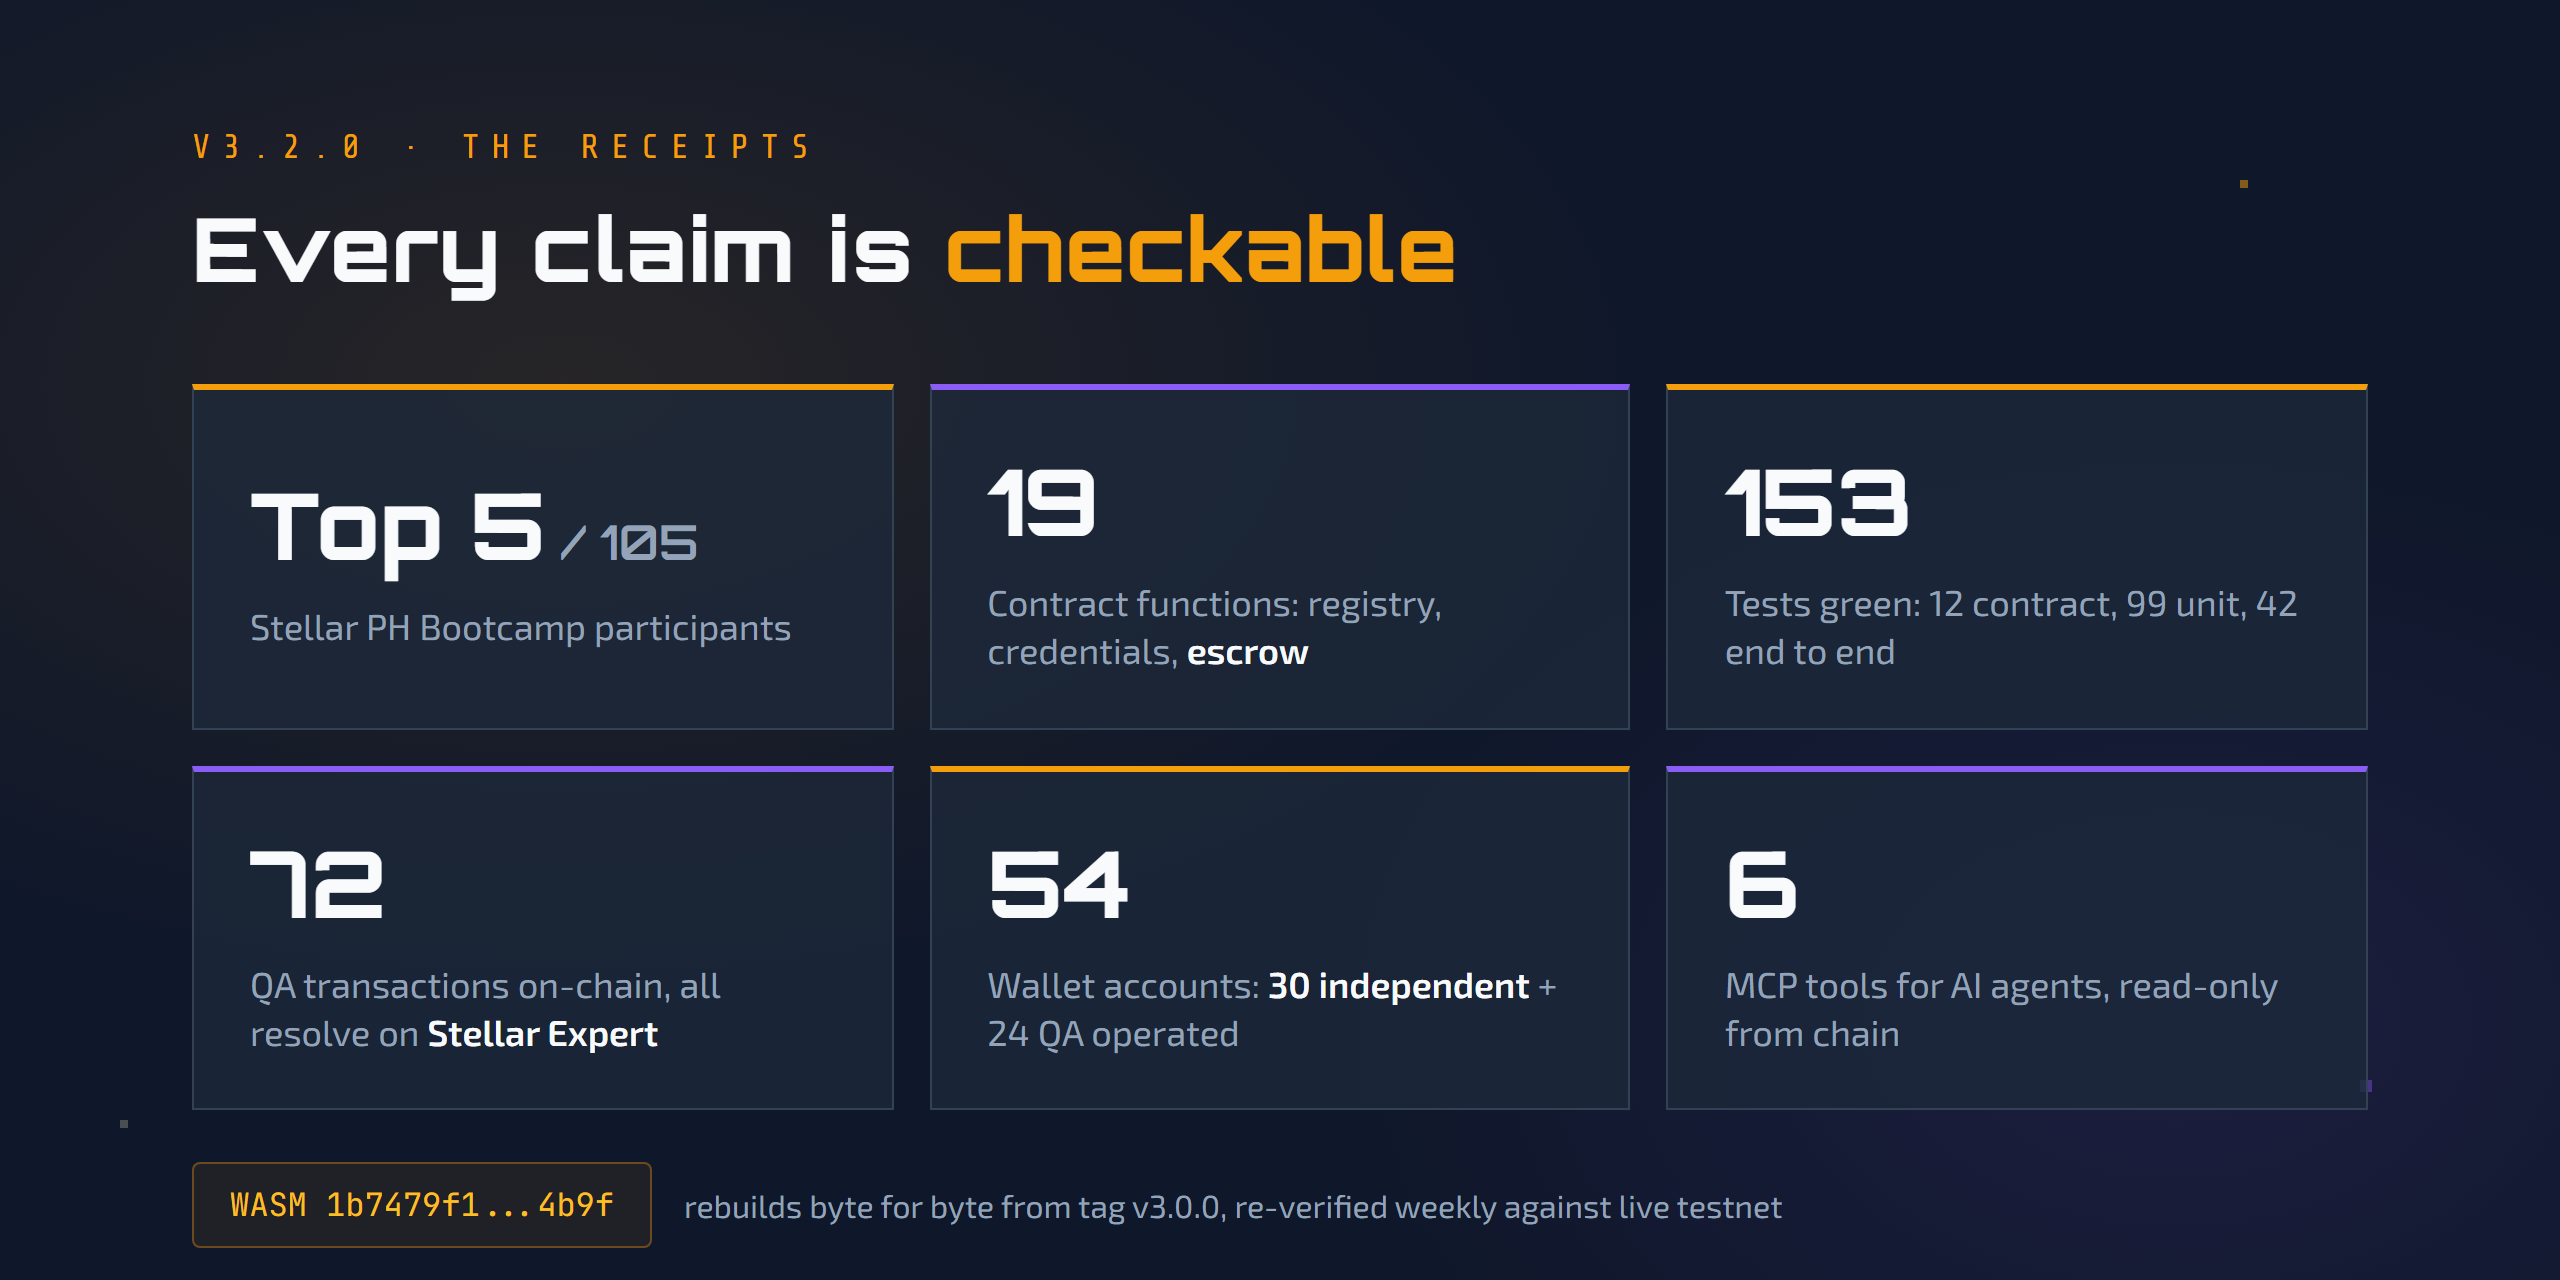
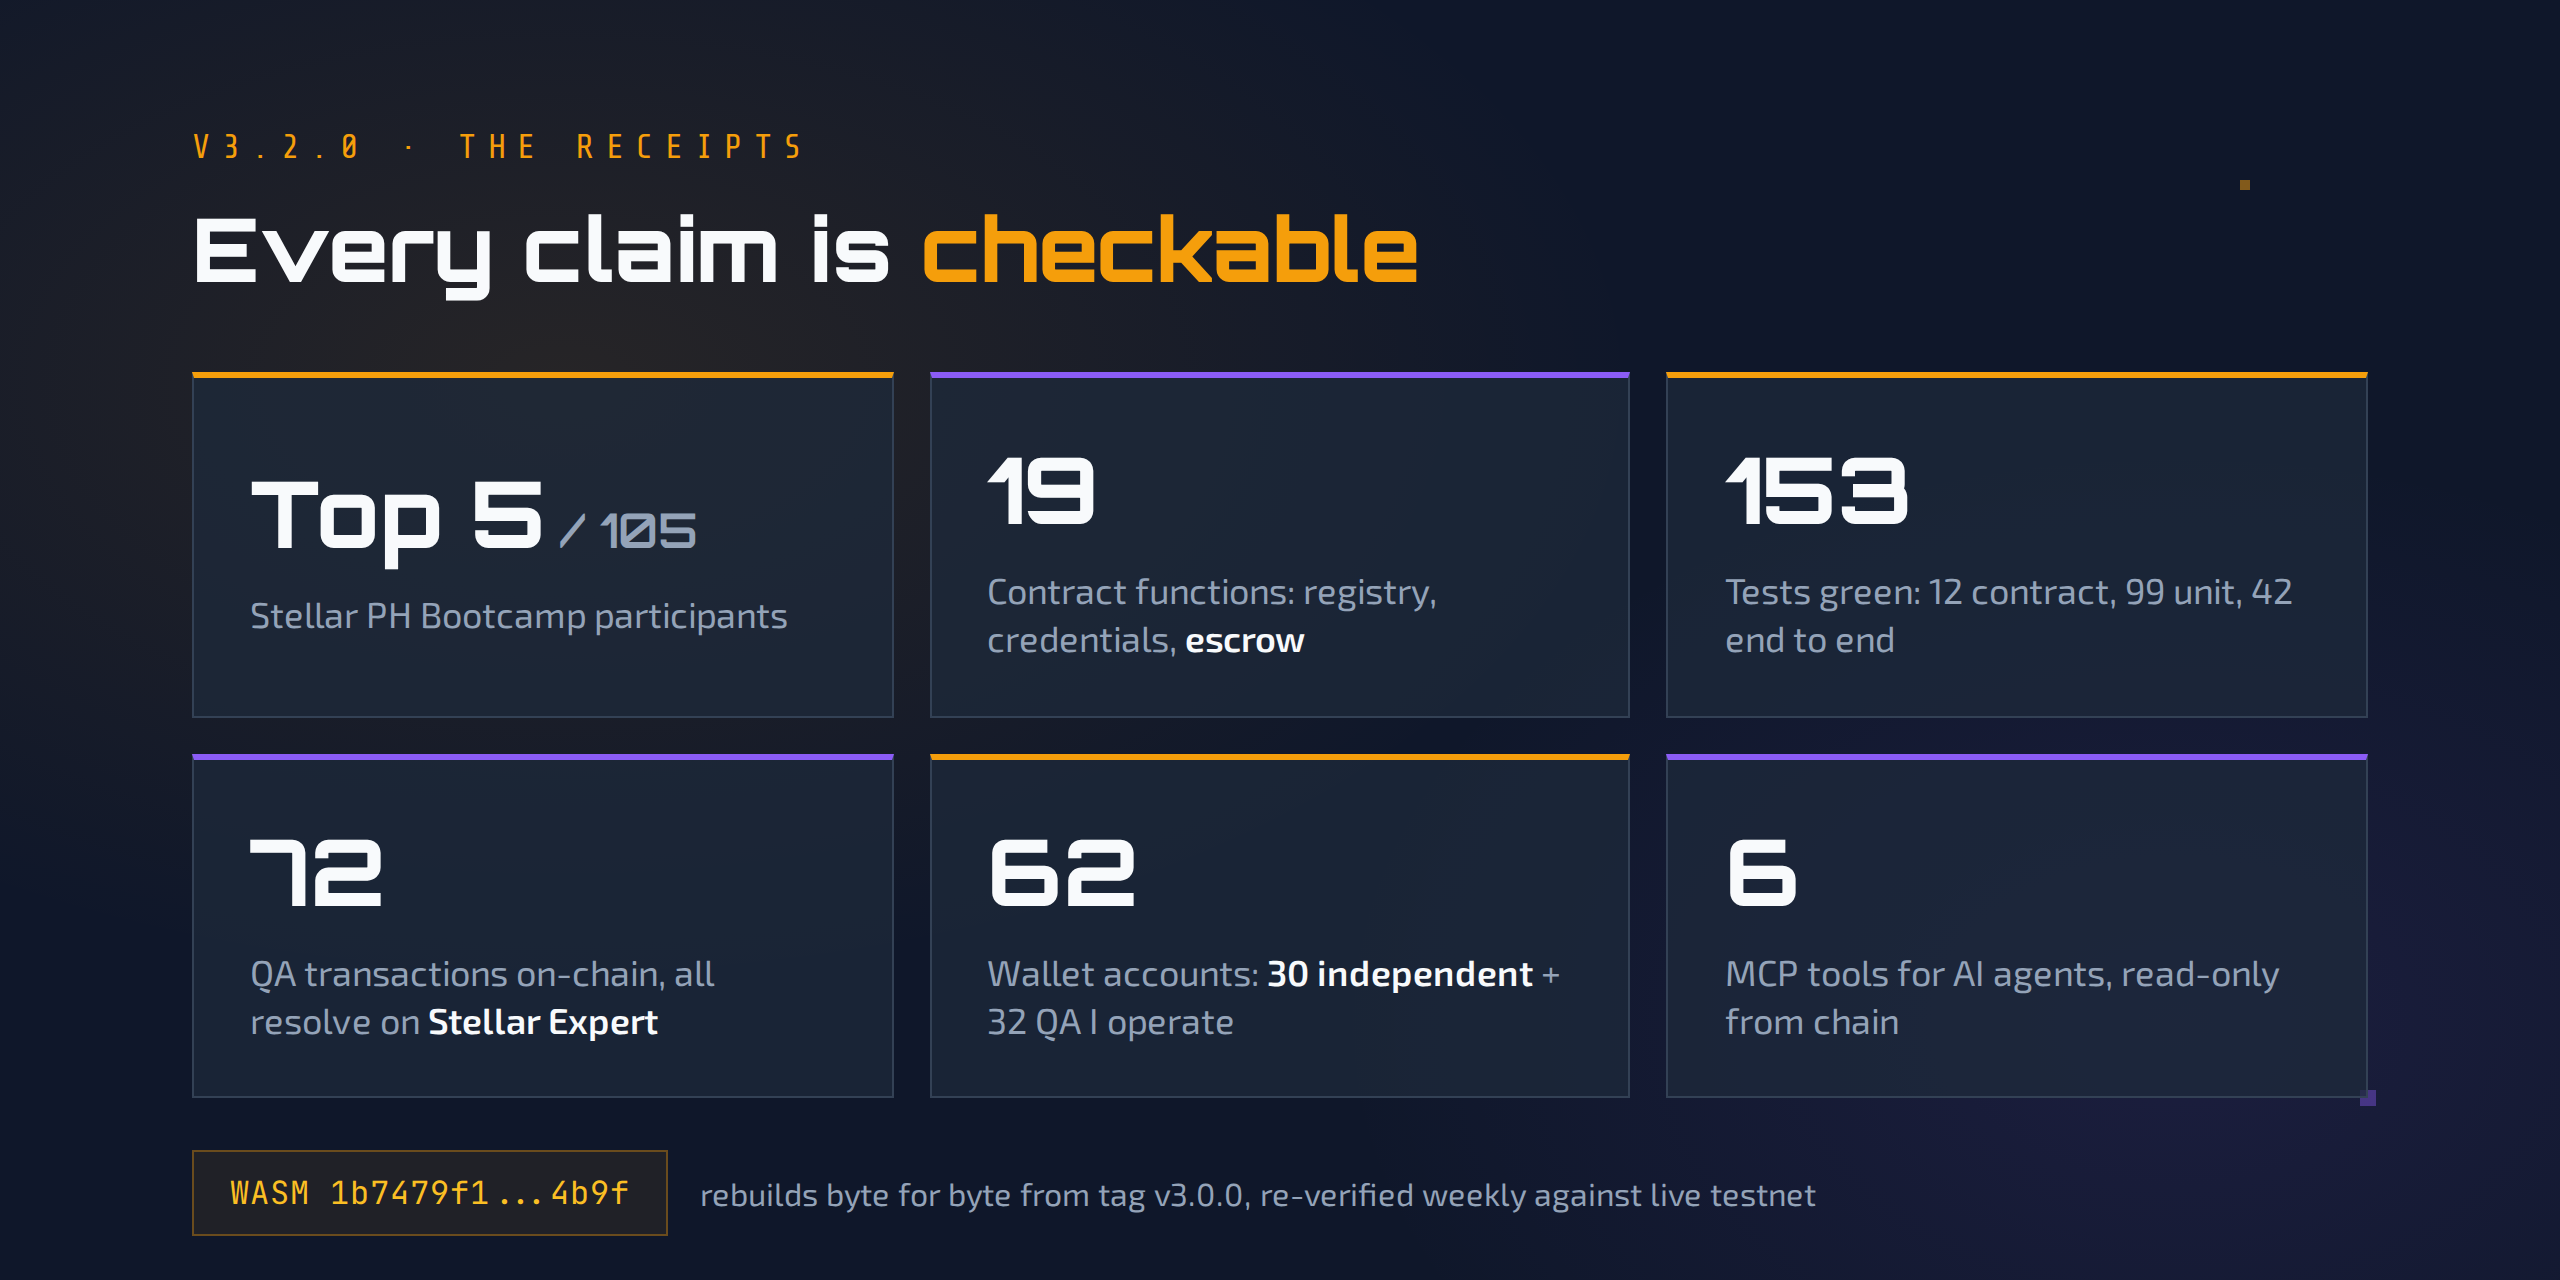
docs: recapture receipts board with the 62 wallet split (#209)
The HTML template already showed 62 testnet wallet accounts (30 independent
plus 32 QA I operate). The committed v320-receipts.png was still the July 54
snapshot. Recaptured from capture.mjs so the posting board matches.

diff --git a/HANDOFF.md b/HANDOFF.md
@@ -106,6 +106,7 @@ The product is parked. Infrastructure closeout is complete. Only the distributio
[1 lines of base64/hex data omitted]
 - [x] Vercel Web Analytics recapture for production, trailing 12 months as of 2026-08-27: **382 visitors, 1,682 page views**. Monthly bounce rate is not in the analytics API; the 30 July 2026 dashboard read was 56%. The Vercel dashboard UI requires a login this environment does not have, so the committed boards are API snapshots, labelled as such, not dashboard chrome: `images/vercel-web-analytics-overview.png`, `images/vercel-web-analytics-pages.png`, `images/vercel-web-analytics-referrers.png`, `images/vercel-web-analytics-geo-devices.png`. Linked from `docs/operations/submission-evidence.md`.
 - [x] August 2026 QA wave: 8 Friendbot-funded Stellar testnet wallets I operate (`qa-aug-01` through `qa-aug-08`), each with a real public transaction. Logged in `docs/operations/guided-qa-wave-2026-08.md`. Combined wallet figure is now 62 testnet wallet accounts (30 independent participants plus 32 QA accounts I operate). Opportunity `#1` was not touched.
+- [x] Recaptured `assets/campaign/v320-receipts.png` from the current template so the posting board shows 62 wallet accounts (30 independent plus 32 QA I operate), not the July 54 snapshot.
 
 ### Completed
 

diff --git a/assets/campaign/README.md b/assets/campaign/README.md
@@ -74,9 +74,9 @@ Frames from `stellaroid-promotional-demo.mp4`, cropped to drop desktop chrome. U
 placement: three Discord variants (general, university, developer community),
 LinkedIn with its first comment, and the Instagram and Facebook caption. Each
 one already carries the testnet qualifier and the wallet-count split, so edit
-with care. The receipts board template (`v320-receipts`) now reads 62 wallet
-accounts (30 independent plus 32 QA I operate). Re-run `capture.mjs` before
-posting that board if the committed PNG still shows the prior 54 snapshot.
+with care. The receipts board (`v320-receipts.png` and its template) shows 62
+wallet accounts (30 independent plus 32 QA I operate). A prior snapshot of
+that board was 54 (30 independent plus 24 QA).
 
 ## Posting notes
 
